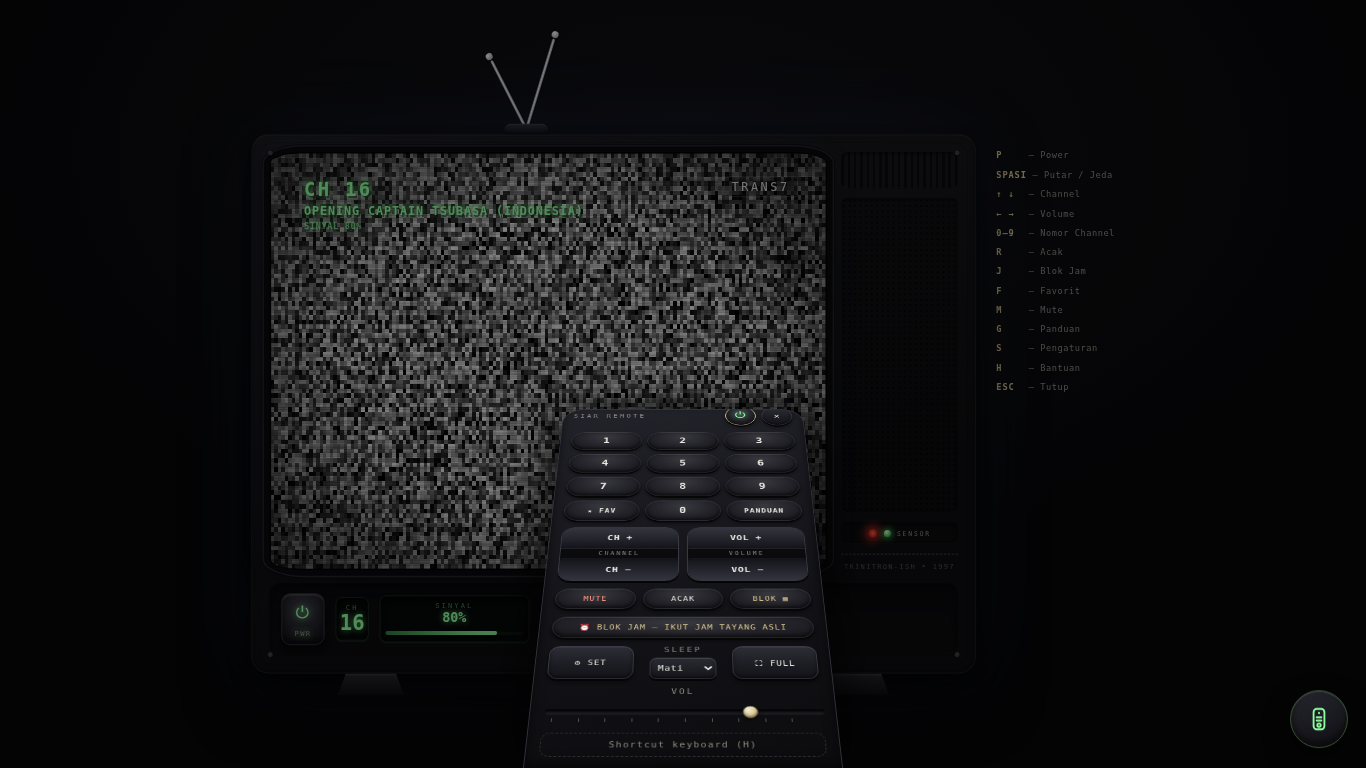
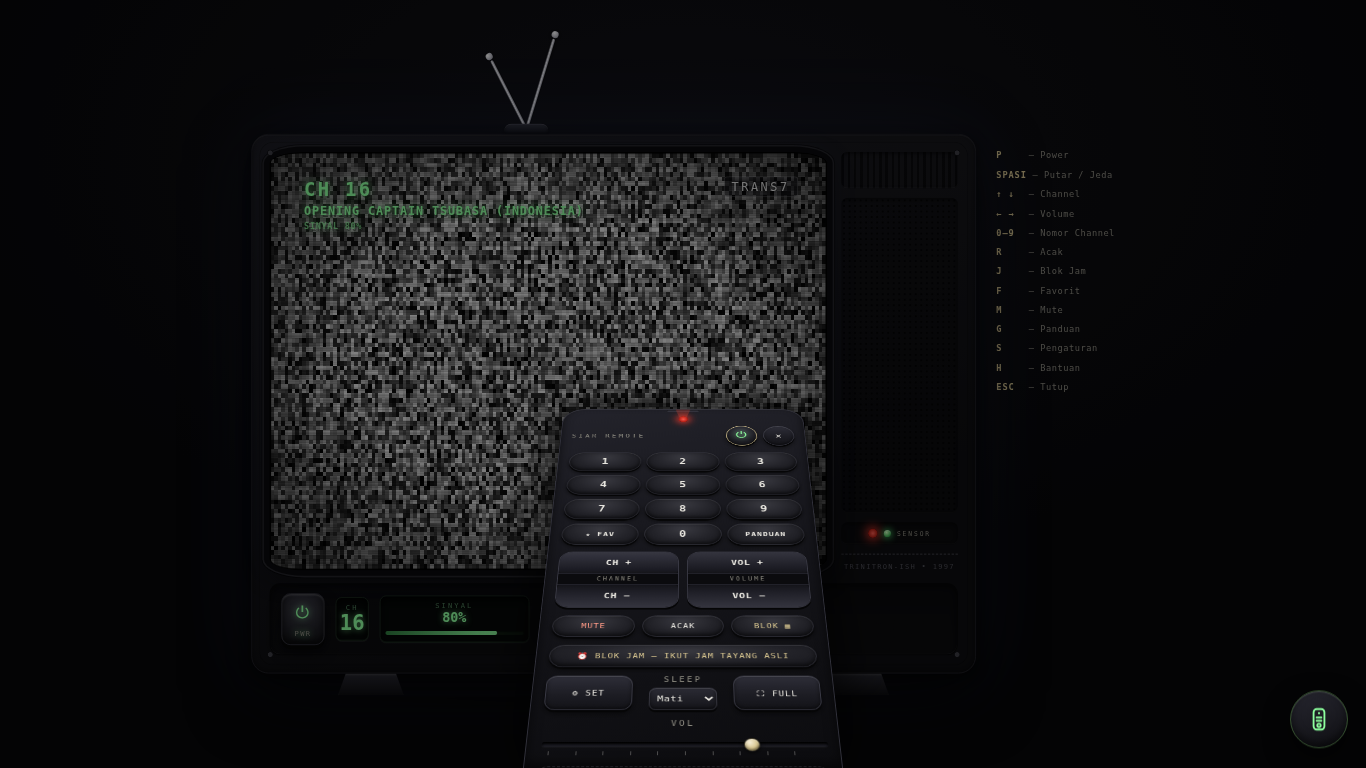
audit siklus 220: batch YT 2015 +4 (katalog 581, stasiun baru Sindo TV)

Changed region(s): [[0.1845, 0.1875, 0.6149, 1.0]]

diff --git a/assets/js/channels.js b/assets/js/channels.js
@@ -601,4 +601,8 @@ const CHANNELS = [
   { id: "x0NNmSoEyxk", title: "Jeda Iklan Ke 124 Trans7 2013", cat: "Iklan Jadul", st: "Trans7" },
   { id: "5ufdRiP3qN4", title: "Jeda iklan B channel (13 maret 2014)", cat: "Iklan Jadul", st: "B Channel" },
   { id: "1nvY_kJVF7Y", title: "Jeda Iklan Trans 7 (3 Mei 2013)", cat: "Iklan Jadul", st: "Trans7" },
+  { id: "xfHOWcSQFUk", title: "Jeda Iklan Ke 129 Sindo TV 2015", cat: "Iklan Jadul", st: "Sindo TV" },
+  { id: "j6yM40jjILc", title: "Jeda Iklan RCTI (20 Februari 2015)", cat: "Iklan Jadul", st: "RCTI" },
+  { id: "jrphbD7LWnA", title: "Jeda Iklan NET. (18 Februari 2015)", cat: "Iklan Jadul", st: "NET." },
+  { id: "zlX_FIlOSdw", title: "Jeda Iklan Trans TV (24 April 2015)", cat: "Iklan Jadul", st: "Trans TV" },
 ];

diff --git a/AUDIT_LOG.md b/AUDIT_LOG.md
@@ -3054,3 +3054,29 @@ Semua commit lokal; tidak ada push/deploy.
 **Total siklus tercatat: 217**
 
 ---
+
+## Siklus 218 — 2026-10-11 06:17 WIB — Batch YouTube jeda iklan 2013-2014: +5 entri (572→577)
+
+- **Area:** Katalog (jeda iklan 2013/2014) + bug fix.
+- **Metode:** web search -> 11 kandidat -> oEmbed (5 OK baru, 6 FAIL 401).
+- **Hasil:** 5 YA (tvOne 2014 [STASIUN BARU], Trans7 2013 x3,
+  B Channel 2014). Bug: tvOne tidak di STATION_ORDER — diperbaiki.
+- **Test:** append -> 577 unik; node --check OK; smoke 18/18 PASS (dari 215).
+- **Commit:** lokal (2 commit).
+- **Next:** Regression (5 siklus).
+
+**Total siklus tercatat: 218**
+
+---
+
+## Siklus 219 — 2026-10-11 06:17 WIB — Regression pass siklus 216–219
+
+- **Area:** Test suite (katalog +9, 2 stasiun baru).
+- **Hasil:** smoke 18/18, remote-click 18/18, hold-repeat 3/3, guide-chunk 7/7.
+  46/46 hijau.
+- **Test:** Semua dijalankan nyata.
+- **Next:** Lanjut (2015, batas era).
+
+**Total siklus tercatat: 219**
+
+---
